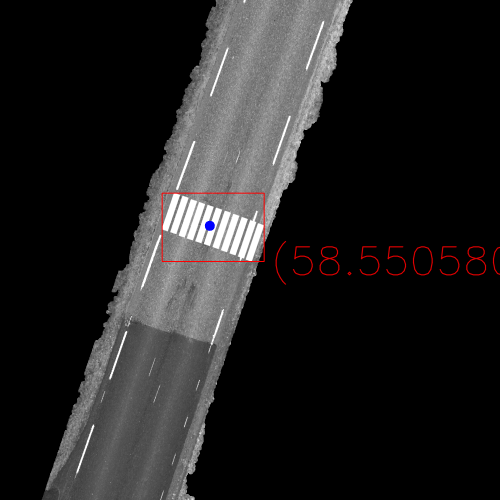
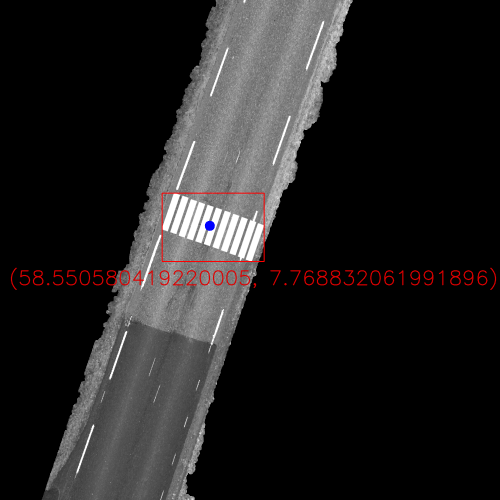
fix: text issue after image cropping

Changed region(s): [[0.54, 0.48, 1.0, 0.57], [0.0, 0.54, 0.51, 0.57]]

diff --git a/src/imageProcessing/crosswalkDetection.py b/src/imageProcessing/crosswalkDetection.py
@@ -189,7 +189,7 @@ def detect(imagePath, outputImages=False, useFirstPersonView=False):
         coordiantesText = "%s" % str(crosswalkCoordinates)
 
         cv2.putText(outputImg, coordiantesText,
-                    (crosswalk.lowerRightCorner[0] + 20, crosswalk.lowerRightCorner[1]+40), font, 4, (0, 0, 225), 2, cv2.LINE_AA)
+                    (crosswalk.lowerLeftCorner[0] - 460, crosswalk.lowerRightCorner[1]+70), font, 2, (0, 0, 225), 2, cv2.LINE_AA)
 
     if (len(crossWalkGroups) > 0):
         log("Crosswalk has been detected in %s" %
